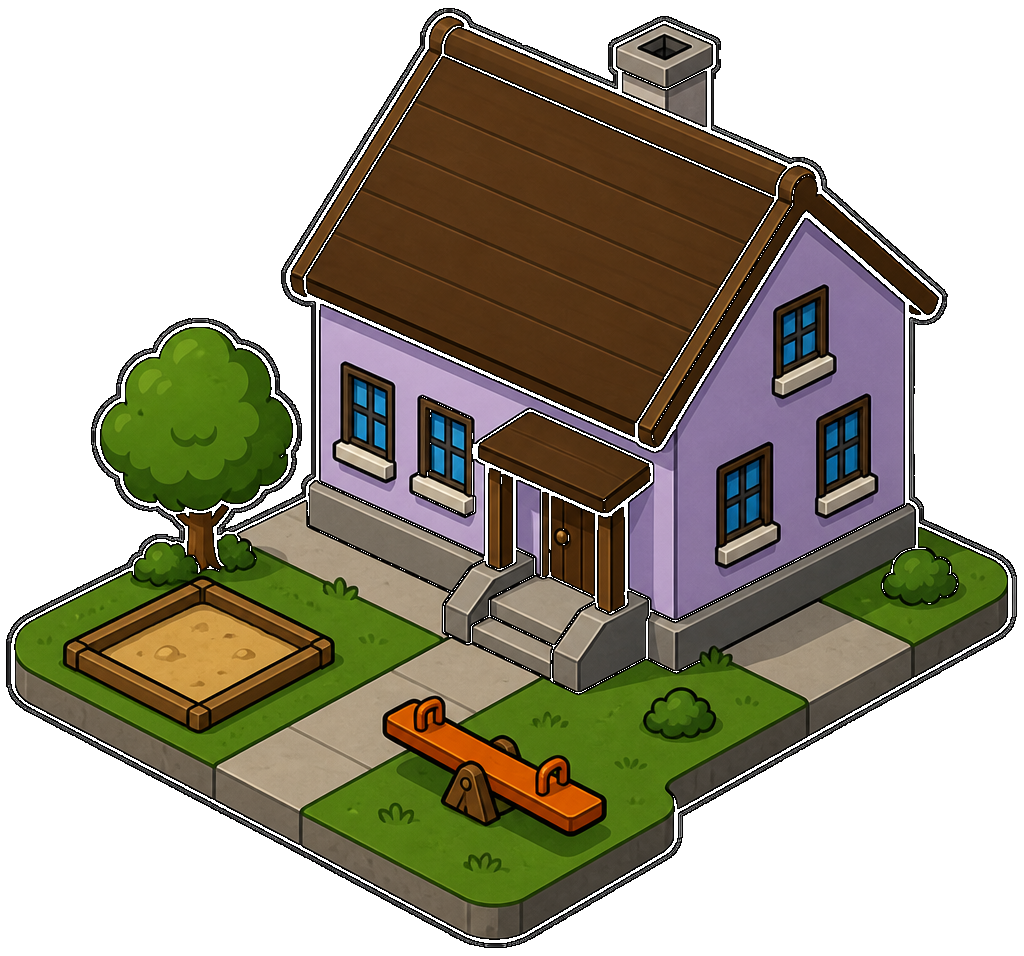
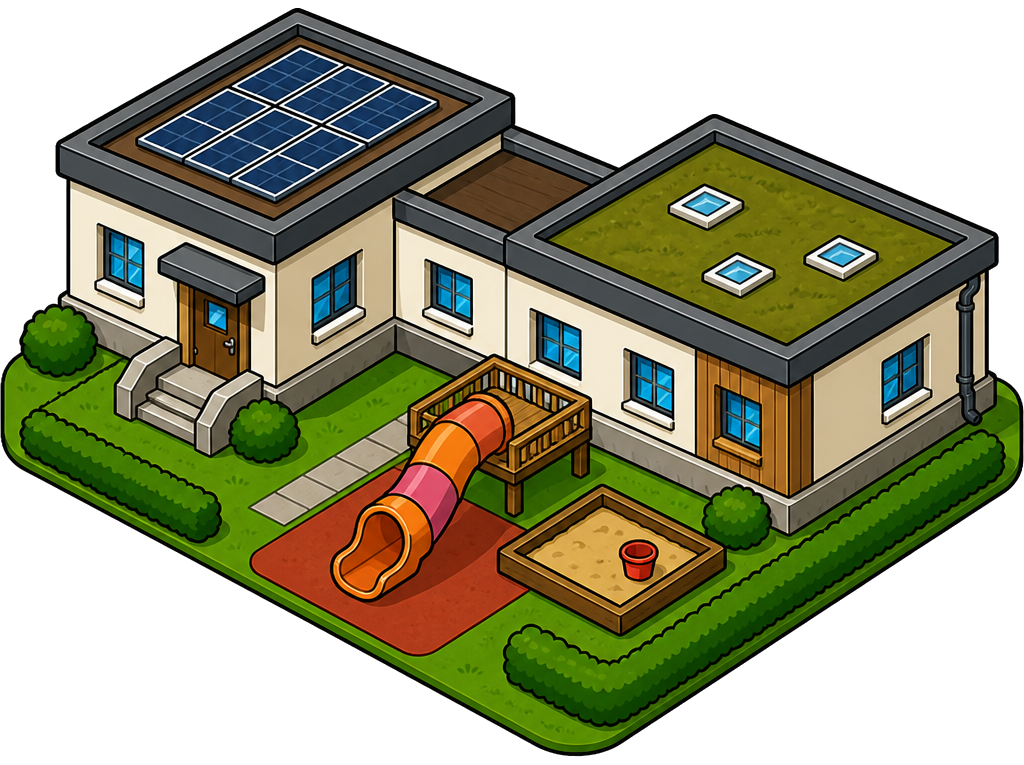
Place Kindergarten Ohringen at Schulstrasse 5 as a modular flat-roof kiga.
It sits in DistrictOhringen beside the campus, not as a gable cottage or a fourth schoolhouse.

diff --git a/docs/plans/m3-landmarks-tracks-water-forest/S07-kiga-ohringen.md b/docs/plans/m3-landmarks-tracks-water-forest/S07-kiga-ohringen.md
@@ -1,6 +1,11 @@
 # Slice: S07 — Kindergarten Ohringen
 
-**Parent:** `docs/plans/m3-landmarks-tracks-water-forest/INDEX.md`  
+**Status:** Erledigt  
+**Typ:** Feature  
+**Datum:** 2026-08-11  
+**Owner:** feature-planner / Phase-2 `feature-implementer`  
+**Parent-INDEX:** `docs/plans/m3-landmarks-tracks-water-forest/INDEX.md`  
+**Slice-Datei:** `docs/plans/m3-landmarks-tracks-water-forest/S07-kiga-ohringen.md`  
 **Hängt ab von:** —
 
 Nur der **Feature-Schritt**. Plan, Tests, Review, Playtest und Git sind der normale Ablauf für *dieses* Stück — nicht extra Slices.
@@ -18,3 +23,196 @@ Der **Kindergarten Ohringen** steht in den Ohringen-Zellen (Gemeinde Seuzach), m
 
 - Campus Ohringen (`S03`) und die drei Dorf-Kigas
 - Bahnhof, Gleise, Badi, Bäche, Wälder, Wohnhäuser
+
+## Ziel
+
+Spieler sieht im **SW** von Seuzach (Oberohringen, **Schulstrasse 5**, 8472 Oberohringen; Primarschule Seuzach) **ein** Kindergarten-Prop in den eigenen Ohringen-Rasterzellen — südöstlich des Schul-Campus, unter `DistrictOhringen`, nicht als viertes Campus-Gebäude. Collision wie Schul-Props; **keine** Sprite-Rotation. Kindergarten Bachtobel, Weid und Schneckenwiese bleiben stehen. Schul-Campi (S01–S03) bleiben unverändert.
+
+## Scope
+
+### In
+
+- Nur **Kindergarten Ohringen**: ein Prop, Node-Name `kiga_ohringen`
+- GPS + Getter in `SeuzachGeo`: `KIGA_OHRINGEN_LAT/LON` + `kiga_ohringen_world()` = Nominatim-Zentroid des OSM-**Gebäudes** (way `52373683`; amenity und building sind derselbe Way)
+- Platzierung in `world_sandbox` via `_add_prop` in bestehendem `_place_kindergartens()` (`landmark_kiga_ohringen.png`, `SCHOOL_SCALE` 0.22 wie Schulen) **zusätzlich** zu Bachtobel, Weid und Schneckenwiese
+- Parent: Kind von bestehendem `DistrictOhringen` (wie die drei S03-Schul-Props; District `position = Vector2.ZERO`, deshalb Weltkoordinaten am Sprite). **Nicht** direkt unter `%Props`. Temporär `_prop_parent` auf den District setzen, danach wieder `_props` — **nicht** in `_place_school_clusters()` einhängen
+- Metas: `landmark_id=kiga_ohringen`, `kindergarten_id=kiga_ohringen`, `district=ohringen`  
+  **Kein** `school_cluster` (sonst zählt `_assert_ohringen_campus` den Kiga als viertes Campus-Gebäude)
+- Collision über bestehendes `_attach_building_collision` (kein Sonderpfad)
+- Tests: Ohringen-Kiga **ist** platziert (Abwesenheits-Asserts aus S03–S06 **umdrehen**); Bachtobel, Weid **und** Schneckenwiese **bleiben** platziert; Schul-Campus-Asserts (S01–S03) unangetastet ausser die `kiga_ohringen not placed (S07)`-Zeilen
+- Art: bestehende PNG nur behalten, wenn Silhouette zu OSM/Satellit passt — hier **Mismatch** (Giebel-Häuschen vs. Modul-Flachdach + PV + Gründach) → Rewrite nur dieser Datei, siehe Art-Bedarf
+
+### Nicht
+
+- Campus Ohringen (`S03` erledigt): Getter `ohringen_*_world()`, Cluster-Count **= 3**, Off-Road der Schulen, `OHRINGEN_LAT/LON` **nicht** umbauen; Kiga nicht als `schulhaus_ohringen_b` missbrauchen
+- Campus Birch / Rietacker (`S01`–`S02`)
+- Kindergarten Bachtobel (`S04`), Weid (`S05`), Schneckenwiese (`S06`): Getter, Prop, Tests **nicht entfernen / nicht umbauen** ausser die Abwesenheits-Schleifen (Ohringen-Kiga darf nicht mehr als „absent“ gelten). Dorf-Kigas bleiben **ohne** `DistrictOhringen`-Parent
+- Bahnhof (`S08`), Gleise (`S09`), Badi (`S10`), Bäche (`S11`), Wälder (`S12`)
+- Wohnhäuser / Housing
+- Hartplatz OSM way `136492025`; Vordächer/Sheds `727214863` / `727214864` / `727214865` (S03-Nicht-Scope bleibt)
+- Separates Spielplatz-Prop oder zweites Volumen für den SW-Schuppen neben dem Kiga (ein Prop)
+- Tagesstrukturen-Neubau Schaffhauserstrasse 72 (Gemeinde-Plan, anderes Grundstück)
+- RoadKit / `seuzach_roads.json` ändern (Schulstrasse / Rundstrasse / Friedenstrasse / Schaffhauserstrasse existieren; Off-Road-Slack ist grün)
+- `SCHOOL_SCALE` global ändern
+- `Sprite2D.rotation` am Kiga (Iso-¾ wie authored; Lage = Maps-Ausrichtung)
+- Neuen `DistrictOhringen`-Node erzeugen (existiert schon aus S03)
+
+### Raster / GPS / Zuordnung
+
+Koordinaten: `SeuzachGeo` (+X Ost, +Y Süd, Kirche = Ursprung, `FIELD_WU=100` = 5,3 m, `UNITS_PER_METER ≈ 18.868`).
+
+| | |
+|--|--|
+| OSM amenity+Gebäude | way `52373683` `amenity=kindergarten`, `building=kindergarten`, `name=Kindergarten Ohringen`, `addr:housenumber=5`, `addr:street=Schulstrasse`, `addr:city=Oberohringen`, `check_date=2025-01-30` — **kein** `roof:shape` / `building:levels` |
+| Gemeinde | Primarschule Seuzach, **Schulstrasse 5, 8472 Oberohringen** (Kindergarten Ohringen; nicht Schulhaus 9 / Turnhalle 7) |
+| GPS Platzierung | **47.5278851, 8.7126832** (Nominatim-Zentroid way `52373683`) |
+| Welt | `kiga_ohringen_world()` ≈ `(−19059.5, 11795.9)` · Feld ≈ `(−191, 118)` |
+| Lage | ~625 m Süd / ~1010 m West der Kirche; **südöstlich** Campus-Anker `ohringen_world()` |
+
+Kein separater amenity-Node: Way `52373683` ist Gebäude **und** POI. Ein Getter, ein Prop: Gebäude-Zentroid wie Schulhaus-Props und S04–S06.
+
+Offset von `ohringen_world()` `(−19840.5, 11431.9)`: `Vector2(780.9, 364.0)` ≈ **41,4 m Ost, 19,3 m Süd**. Paar-Abstände (Zentroide): Kiga↔b ≈ 518 wu (27 m), Kiga↔Turnhalle ≈ 621 wu (33 m), Kiga↔a ≈ 1081 wu (57 m), Kiga↔Anker ≈ 862 wu (46 m). Alle ≫ `MIN_CLUSTER_SEP` 160 — eigener Baukörper, kein Megablock.
+
+Nominatim `hamlet=Rainbuck` / `village=Oberohringen` ist OSM-Hierarchie und **diesmal** der richtige District (`district=ohringen`, Parent `DistrictOhringen`). **Nicht** der A1-Hub (`forrenberg_world()` liegt weit östlich, `d ≈ 32264` wu). Guard: Kiga `x < -15000` und `y > 8000` (dieselben SW-Zellen wie S03), plus Nähe zum Campus-Anker `< 1200` wu.
+
+Relativlage (Kartenbild, N = kleineres Y):
+
+```
+        a Schulhaus 9  (N)
+              |
+              |                 b Schultrakt 1985  (O)
+              +-- Anker ohringen_world()
+    Turnhalle 7 S
+                         Kiga 5 SO  ← dieser Slice
+        Schaffhauserstrasse SW     Rundstrasse O     Schulstrasse W/NW
+        Friedenstrasse weiter S
+        Kirche NE               A1-Forrenberg weit O (nicht hier)
+        Dorf-Kigas weit O/NE (Bachtobel/Weid/Schneckenwiese)
+```
+
+OSM-Grundriss way `52373683` (Stand 2026-08-11): bbox ~27 m N–S × ~20 m O–W, gestuft an der Ostseite; längste Kante ~12 m, grob **WNW–ESE** (Bearing ~119°). Spiel-Sprite bei `SCHOOL_SCALE=0.22` ist visuell ~12 m (1024×956 px) — bestehende Schul-Konvention, hier nicht skalieren.
+
+SWISSIMAGE (LV95 ~2695943/1264906, 2026-08-11): **kein Giebel**. Modularer Flachdach-Cluster: NW-Flügel mit **PV-Raster** (SKGS 2016, 100 m² / 17 kWp), SO-Flügel **Gründach** mit Oberlichtern, rosa/orange Röhrenrutsche von der Südterrasse, roter Fallschutz südlich. Siehe Art-Bedarf.
+
+RoadKit: Gebäude-Zentroid vs. `seuzach_roads.json` Schulstrasse (`class=local`, `half_w=36`): Füße ≈ 359 wu vs. Need 100 / 50. Nächste anderen: Rundstrasse ~582 wu, Friedenstrasse ~768 wu, Schaffhauserstrasse ~794 wu (main). Off-Road-Asserts sollen ohne JSON-Änderung grün bleiben. `_assert_road_near(..., "Schulstrasse", ..., 900)` passt.
+
+Ist-Zustand (warum dieser Slice): `_place_kindergartens()` setzt Bachtobel + Weid + Schneckenwiese. `KIGA_IDS` listet Ohringen; `_assert_ohringen_campus`, `_assert_kiga_weid` und `_assert_kiga_schneckenwiese` (plus Bachtobel-Skip-Schleife) fordern `kiga_ohringen` **abwesend**. S07 platziert **nur** den Ohringen-Kiga dazu und **kehrt** diese Absents um. Campus-Cluster bleibt genau 3.
+
+## Systeme
+
+- `scripts/seuzach_geo.gd` — GPS-Konstanten + `kiga_ohringen_world()` (Bachtobel-/Weid-/Schneckenwiese- und Schul-Getter unangetastet)
+- `scripts/world_sandbox.gd` — `_place_kindergartens()` um Ohringen-Kiga erweitern unter `DistrictOhringen`; Dorf-Kiga-Aufrufe bleiben unter `%Props`; `_place_school_clusters()` und `_add_prop` + `_attach_building_collision` unverändert
+- `tests/m3_world_landmarks_test.gd` — Ohringen-Kiga-Layout; Bachtobel, Weid und Schneckenwiese weiter vorhanden; Schul-Asserts bleiben (Cluster = 3); Absents für `kiga_ohringen` entfernen
+- `tests/m3_building_occlusion_test.gd` — Sample bleibt Birch; Cluster-Spacing zählt nur `school_cluster` (Kiga ohne dieses Meta); neuer Prop SW darf Occlusion nicht kippen
+- `tests/m2_world_test.gd` — nicht regressieren
+- Art `assets/art/landmark_kiga_ohringen.png` (bestehend, Silhouette-Rewrite siehe Art-Bedarf)
+
+## Repro & RCA (Pflicht bei Typ = Bugfix)
+
+n/a (Typ = Feature; Ist-Zustand: Ohringen-Kiga nicht platziert, Tests fordern Abwesenheit, siehe Scope).
+
+## Technische Schritte
+
+1. **`SeuzachGeo`:** Schul-/Bachtobel-/Weid-/Schneckenwiese-/Bahnhof-/Badi-/Forrenberg-Konstanten nicht ändern. `OHRINGEN_LAT/LON` unverändert. Neu:
+   - `KIGA_OHRINGEN_LAT := 47.5278851`
+   - `KIGA_OHRINGEN_LON := 8.7126832`
+   - `kiga_ohringen_world() -> gps_to_world(...)`  
+   Kommentar: OSM way `52373683` Schulstrasse 5 Oberohringen (Gebäude=POI), nicht Campus-Ways `52373582` / `52373583` / `917552680`, nicht Forrenberg-Hub.
+2. **`world_sandbox.gd`:** In `_place_kindergartens()` **Bachtobel, Weid und Schneckenwiese behalten** (Parent weiter `_props`) und **Ohringen-Kiga hinzufügen** als Kind von `DistrictOhringen` (Node existiert nach `_place_school_clusters()`):
+   ```
+   var district := _props.get_node_or_null("DistrictOhringen")
+   _prop_parent = district if district else _props
+   _add_prop(
+     "landmark_kiga_ohringen.png",
+     SeuzachGeo.kiga_ohringen_world(),
+     SCHOOL_SCALE,
+     {"landmark_id": "kiga_ohringen", "kindergarten_id": "kiga_ohringen", "district": "ohringen"},
+     "kiga_ohringen"
+   )
+   _prop_parent = _props
+   ```
+   Keine `rotation`. Kein `school_cluster`. Kommentar „Ohringen-Kiga comes later“ entfernen. `_place_school_clusters()` nicht um den Kiga erweitern.
+3. **Tests zuerst/mit:** In `tests/m3_world_landmarks_test.gd`:
+   - Neue Funktion `_assert_kiga_ohringen(sprites)` aus `_run` aufrufen (nach `_assert_kiga_schneckenwiese`).
+   - Ohringen-Kiga **vorhanden:** Node `kiga_ohringen`; Metas `landmark_id` / `kindergarten_id` / `district` wie Scope; `_has_kindergarten(..., "kiga_ohringen")` true.
+   - GPS-Konstanten matchen die Tabelle; Getter `distance_to(Vector2(-19059.5, 11795.9)) < 1.0`.
+   - Position ≤ **80 wu** zum Getter.
+   - Quadrant: `x < -15000` und `y > 8000` (SW-Ohringen-Zellen, nicht Dorfkern, nicht Forrenberg-Südost).
+   - Nähe Campus: Distanz zu `ohringen_world()` **< 1200 wu** (Ist ≈ 862).
+   - Relativ: `kiga.position.x > ohringen_schulhaus_b_world().x` (östlich von b); `kiga.position.x > ohringen_turnhalle_world().x` (östlich der Halle); `kiga.position.y > ohringen_schulhaus_a_world().y` und `> ohringen_schulhaus_b_world().y` (südlich von a und b). Distanz zu `birch_world()`, `forrenberg_world()`, `kiga_bachtobel_world()`, `kiga_weid_world()`, `kiga_schneckenwiese_world()` jeweils **> 8000 wu**.
+   - Parent-Kette enthält **`DistrictOhringen`** (Gegenteil der Dorf-Kigas).
+   - `rotation == 0`; `has_building_collision`; **kein** `school_cluster`.
+   - **Campus bleibt 3:** `_assert_ohringen_campus` weiter aufrufen; Zeilen `kiga_ohringen not placed (S07)` / `no kiga_ohringen node` **entfernen** (nicht durch Cluster-Count-4 ersetzen). Birch-/Rietacker-OSM-Blöcke, Relativlage a/b/Halle, `OHRINGEN_*`-Konstanten **nicht** umbauen.
+   - **Dorf-Kigas bleiben:** `_assert_kiga_bachtobel` / `_assert_kiga_weid` / `_assert_kiga_schneckenwiese` weiter aufrufen. Abwesenheits-Schleifen umdrehen:
+     - Bachtobel-Skip: alle vier `KIGA_IDS` skippen (oder die „later slice“-Schleife streichen — alle Kigas sind platziert).
+     - Weid: `for absent_id in ["kiga_ohringen"]` **löschen**.
+     - Schneckenwiese: `not _has_kindergarten(..., "kiga_ohringen")` und `no kiga_ohringen node` **löschen**.
+     - Dorf-Kigas behalten `parent chain excludes DistrictOhringen`.
+   - Off-Road: `_assert_schools_off_roads` deckt bereits `kindergarten_id` ab — Ohringen-Kiga fällt automatisch unter Schulstrasse/Rundstrasse. **Nicht** `school_cluster` am Kiga setzen. Road-JSON nicht anfassen.
+   - Optional in `_assert_kiga_ohringen`: `_assert_road_near(ground, "Schulstrasse", SeuzachGeo.kiga_ohringen_world(), 900.0)` — Marker existiert schon, nicht die globale Required-Road-Liste anfassen.
+4. **Occlusion / m2:** keine Sample-Umbiegung auf den Kiga; `m3_building_occlusion_test` Cluster-Spacing bleibt `school_cluster=ohringen` (3 Props); `m2_world_test` unverändert erwarten.
+5. **Art-Gate:** Silhouette kippt (Satellit Modul-Flachdach+PV+Gründach vs. Ist-Giebelhäuschen) — `comic-rettung-art` **dieser** PNG, siehe Art-Bedarf. Pipeline: `process_art_alpha.py` → `verify_art_alpha.py`; ggf. `godot --headless --path . --import`.
+6. Suite `./scripts/run_tests.sh`. Playtest nur Ohringen-Kiga (Dorf-Kigas und Schul-Campi visuell nicht umbauen).
+
+## Testplan
+
+### Automatisiert
+
+- [x] `kiga_ohringen` in `world_sandbox` unter `DistrictOhringen` vorhanden, Metas wie Scope
+- [x] Position ≈ `kiga_ohringen_world()`, Toleranz 80 wu; Getter ≈ `(−19059.5, 11795.9)`
+- [x] Guard `x < -15000`, `y > 8000`; < 1200 wu vom Campus-Anker; östlich von b und Turnhalle; südlich von a und b; weit von Birch, Forrenberg und den drei Dorf-Kigas
+- [x] `kiga_bachtobel`, `kiga_weid` **und** `kiga_schneckenwiese` **weiter platziert** (S04–S06-Asserts bleiben grün)
+- [x] Kein `school_cluster` am Kiga; Birch/Rietacker/Ohringen bleiben je genau 3
+- [x] Off-Road (Füße + AABB) inkl. Schulstrasse ohne Road-JSON-Änderung
+- [x] BuildingCollision; `rotation` 0; Parent **ist** `DistrictOhringen`
+- [x] S01–S06 Campus-/Kiga-Asserts und `m2_world_test` grün
+- [x] Art-Datei existiert (`REQUIRED_ART` enthält `landmark_kiga_ohringen.png` bereits)
+
+### Playtest / Smoke
+
+- [x] Haupt-Scene startet ohne Error
+- [x] Ein Kindergarten-Gebäude an Schulstrasse 5 (SW, südöstlich des Schul-Campus), Füße auf Gras nicht auf Asphalt; Hof-Lücke zu a/b/Turnhalle bleibt
+- [x] Collision blockiert wie Schulhäuser; Spieler kann an der Fassade vorbei und zwischen Kiga und Campus durch
+- [x] Y-Sort: Spieler südlich der Fassade davor, nördlich dahinter
+- [x] Bachtobel-, Weid- und Schneckenwiese-Kiga weiter im Dorf sichtbar; Schul-Cluster unverändert (drei Gebäude, kein Megablock mit dem Kiga)
+- [x] Kein Sprite-Twist; Iso-¾ wie authored
+- [x] Keine weissen/schwarzen AI-Platten (`verify_art_alpha`)
+
+Playtest 2026-08-11: `verify_art_alpha` 181 PNGs; `./scripts/run_tests.sh` green inkl. Ohringen-Kiga-GPS/Off-Road (Schulstrasse feet d=359 / AABB 185; Rundstrasse 582; Friedenstrasse 768; Schaffhauserstrasse 794); smoke `godot --path . --quit-after 5` exit 0. Shot `/tmp/s07-kiga-ohringen.png` (player at `kiga_ohringen_world()`, zoom 0.42): modularer Flachdach-Cluster (PV-NW + Gründach-SO), Röhrenrutsche+Fallschutz südlich, Füße auf Gras; Schulstrasse/Rundstrasse nur am Rand. Campus-Cluster bleibt 3 (`school_cluster ohringen` got 3); b und Turnhalle im Frame NW, a knapp nördlich ausserhalb. Parent `DistrictOhringen`; Bachtobel/Weid/Schneckenwiese weiter platziert. Rewrite-PNG bestätigt (kein Giebel).
+
+## Art-Bedarf
+
+- [ ] Keine neuen Assets *(nicht der Default — Silhouette kippte)*
+- [x] Neue Grafiken/Animationen → Subagent **`comic-rettung-art`** (Stil C) **nur dieser Kiga** — Rewrite geliefert, Playtest bestätigt Flachdach-Modul + PV + Gründach
+
+**Warum Rewrite (wie S05 Weid / S06 Schneckenwiese, anders als S04 Bachtobel):**
+
+| Quelle | Silhouette |
+|--------|------------|
+| OSM way `52373683` | `building=kindergarten`, **kein** `roof:shape` / `building:levels`; Grundriss ~27×20 m gestuft |
+| SWISSIMAGE (BBOX Gebäude, 2026-08-11) | **modulares Flachdach**: NW-Flügel dunkles **PV-Raster**, SO-Flügel **Gründach** mit Oberlichtern; rosa/orange Röhrenrutsche von der Südterrasse; roter Fallschutz südlich |
+| SKGS / Gemeinde | PV Kindergarten Oberohringen Juli 2016, 100 m² / 17 kWp — bestätigt grosse, flache Dachebene |
+| Ist-PNG | 1024×956 RGBA, 2-geschossiges **Giebel**-Häuschen (lavendel, Kamin, Wippe, Sandkasten) — lesbarer Kiga, aber **Giebel ≠ Flachdach-Modul + PV** |
+
+Giebel/Flachdach-Konflikt. Spielgeräte (Rutsche, Hof) sind Style-C-Kiga-Sprache und dürfen bleiben — Dach und Baukörper nicht. Bachtobel-PNG nicht anfassen (lachs, Einzelgiebel). Weid-PNG nicht anfassen (mint, ein Flachdach-Pavillon). Schneckenwiese-PNG nicht anfassen (zwei Walm-Flügel + Flachdach). Campus-Ohringen-Art nicht anfassen (a Giebel-Schulhaus, b/Halle Flachdach).
+
+**Auftrag `comic-rettung-art` (Phase 2b):**
+
+- Rewrite **nur** `assets/art/landmark_kiga_ohringen.png`, gleicher Pfad
+- Refs: `docs/design-refs/c-umgebung.png`, `c-basis.png`, `c-iso-city-map.png` + Maps/Street View / SWISSIMAGE Schulstrasse 5 Oberohringen / Satellit Kindergarten Ohringen (nicht Schulhaus 9 / Turnhalle 7 als dasselbe Volumen)
+- Stil C: Kontur, Cel; kleiner CH-Kiga als **modularer Flachdach-Cluster** (PV höchstens angedeutet, kein Technik-Lego; Gründach als bräunlich-grüne Fläche ok); Spielbereich südlich erlaubt (Röhrenrutsche, Fallschutz) — kein 2-geschossiges Giebelhaus, kein Kamin
+- Iso-¾ Default-Facing; **kein** `Sprite2D.rotation`; kein extra Dir-Set
+- Pipeline: `python3 scripts/process_art_alpha.py` → `python3 scripts/verify_art_alpha.py` (grün); Walk-Pad entfällt
+- Keine Bachtobel-/Weid-/Schneckenwiese-Kiga-Art, keine Schul- oder Housing-Art, kein zweites Shed-Prop
+
+Falls Playtest/Street View **Giebel** bestätigt (Satellit falsch gelesen): PNG behalten und hier dokumentieren — Default ist Rewrite.
+
+## Akzeptanzkriterien
+
+- [x] Grenzen eingehalten: nur Ohringen-Kiga neu; Bachtobel, Weid und Schneckenwiese bleiben; Campus Ohringen bleibt drei Gebäude; keine Bahnhof-/Gleis-/Badi-/Bach-/Wald-/Housing-Änderungen
+- [x] Prop auf GPS der Tabelle (±80 wu); SW-Ohringen-Zellen unter `DistrictOhringen`, nicht Forrenberg-Hub, nicht Dorfkern
+- [x] Off RoadKit-Asphalt; Collision wie Schul-Props; keine Sprite-Rotation; kein `school_cluster`
+- [x] Art: Flachdach-Modul-Silhouette Style C **oder** dokumentierter Playtest-Entscheid, dass die Giebel-PNG reicht
+- [x] Automatisierte Tests grün
+- [x] Code Review ohne offene Critical/High
+- [x] Playtest Pass

diff --git a/docs/plans/m3-landmarks-tracks-water-forest/INDEX.md b/docs/plans/m3-landmarks-tracks-water-forest/INDEX.md
@@ -17,7 +17,7 @@ Feature-Schritte, keine Prozess-Schritte. Pro Zeile folgt der volle Entwicklungs
 | S04 | `S04-kiga-bachtobel.md` | Kindergarten Bachtobel | — | erledigt |
 | S05 | `S05-kiga-weid.md` | Kindergarten Weid | — | erledigt |
 | S06 | `S06-kiga-schneckenwiese.md` | Kindergarten Schneckenwiese | — | erledigt |
-| S07 | `S07-kiga-ohringen.md` | Kindergarten Ohringen | — | offen |
+| S07 | `S07-kiga-ohringen.md` | Kindergarten Ohringen | — | erledigt |
 | S08 | `S08-bahnhof-seuzach.md` | Bahnhof Seuzach | — | offen |
 | S09 | `S09-bahngleise.md` | Bahngleise (S-Bahn) | S08 | offen |
 | S10 | `S10-badi-weiher.md` | Schwimmbad Weiher | — | offen |
